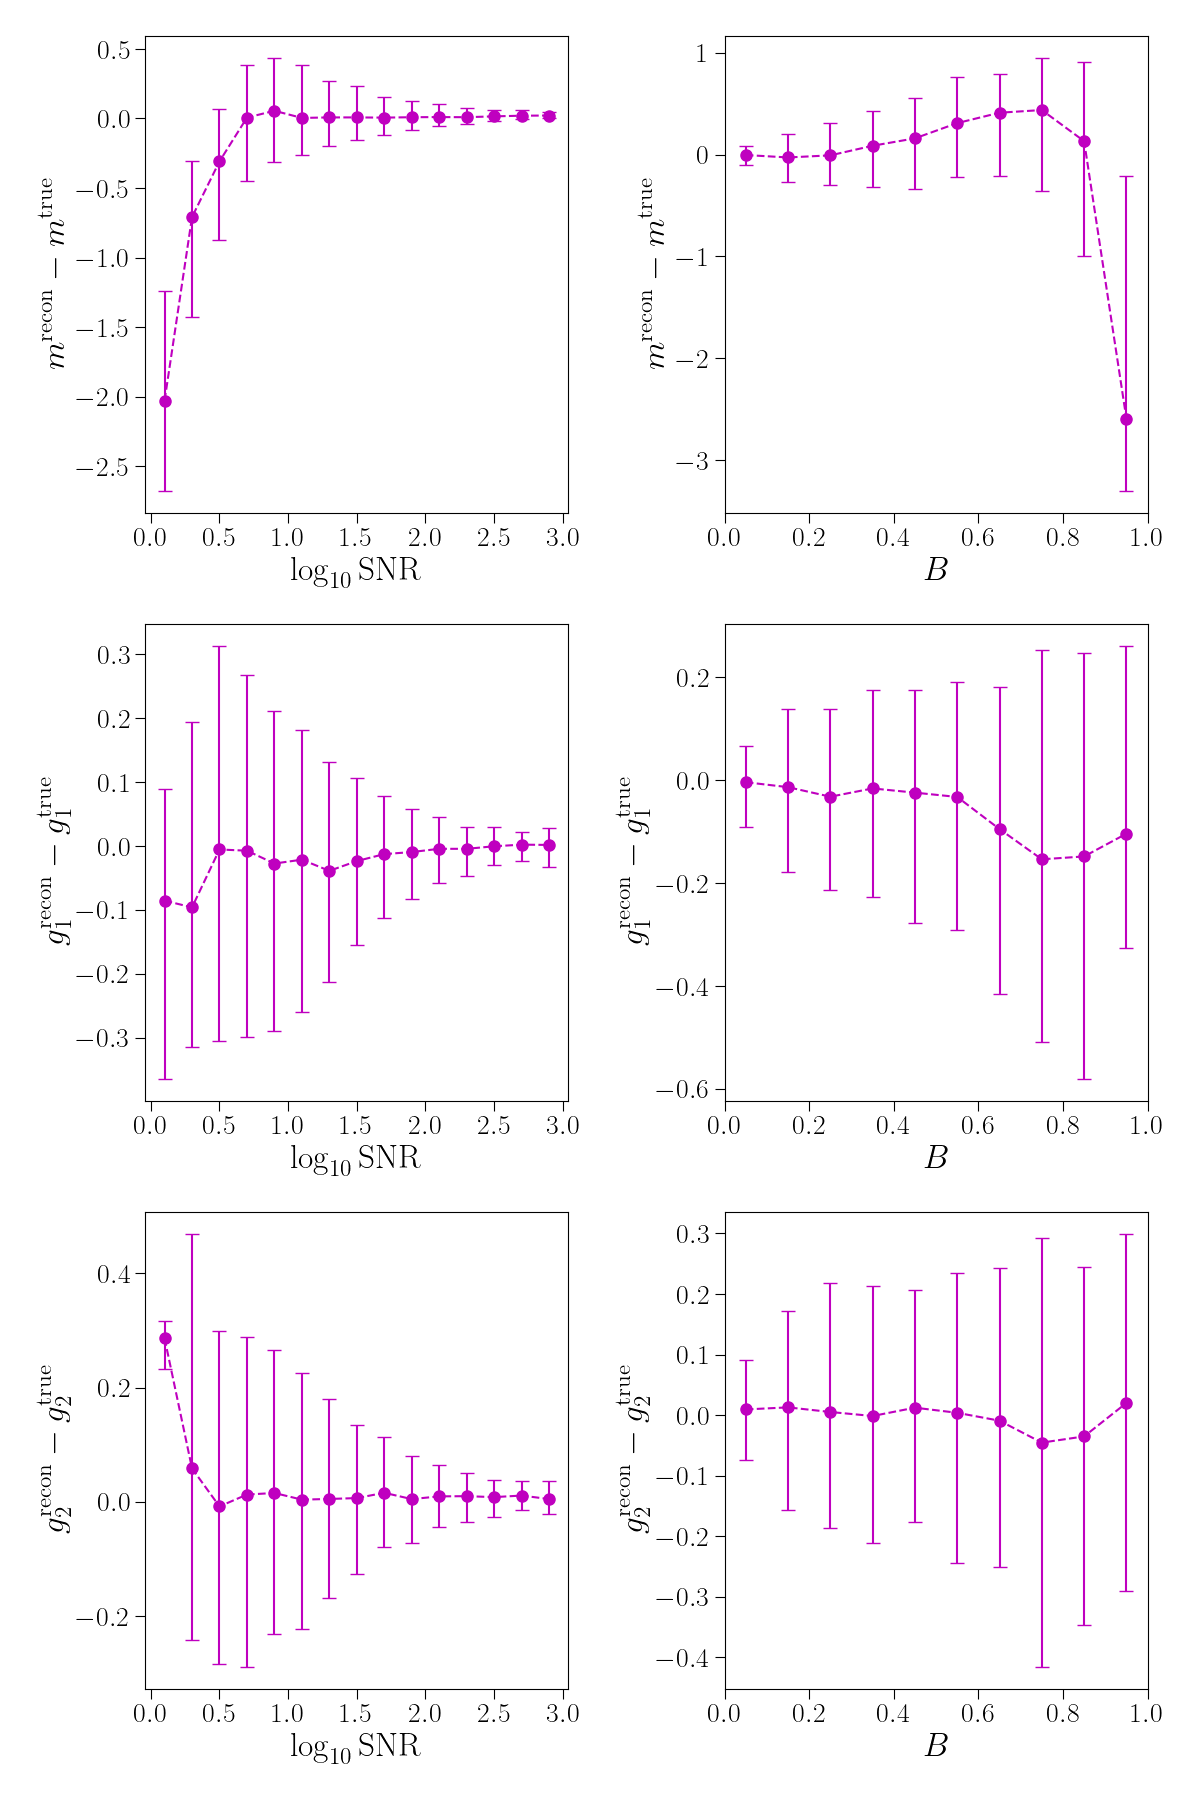
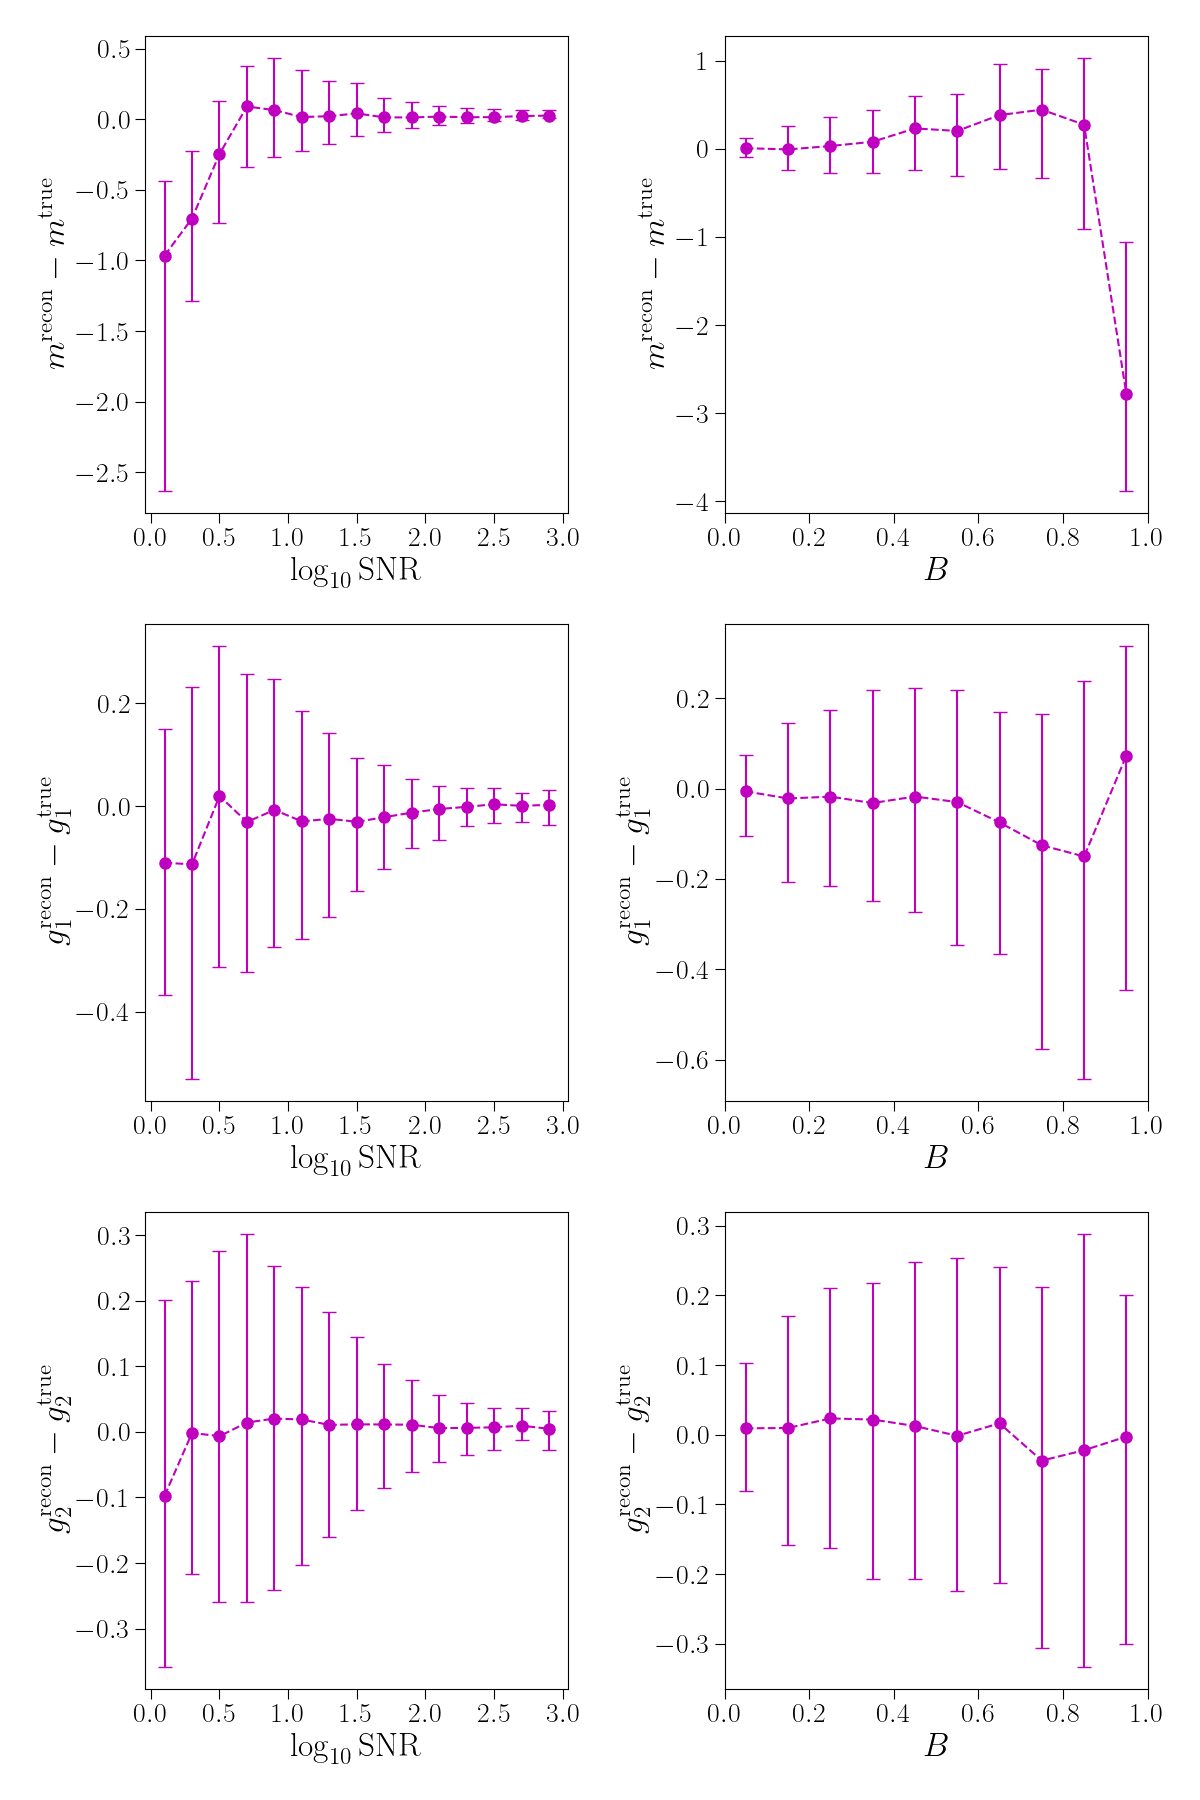
issue disappears on even images with a small shift from center

diff --git a/bliss/models/galsim_decoder.py b/bliss/models/galsim_decoder.py
@@ -213,7 +213,7 @@ class UniformBrightestCenterGalsimGalaxy(UniformGalsimGalaxiesPrior):
         flux = sample["galaxy_params"][:, 0].reshape(-1)
         idx_order = torch.argsort(-flux)
         reordered_sample = {k: v[idx_order] for k, v in sample.items()}
-        reordered_sample["locs"][0, :] = 0.5  # centered
+        reordered_sample["locs"][0, :] = 0.5 + _uniform(0.015, 0.03, 2)  # slight off-center.
         return {"n_sources": n_sources, **reordered_sample}
 
 
